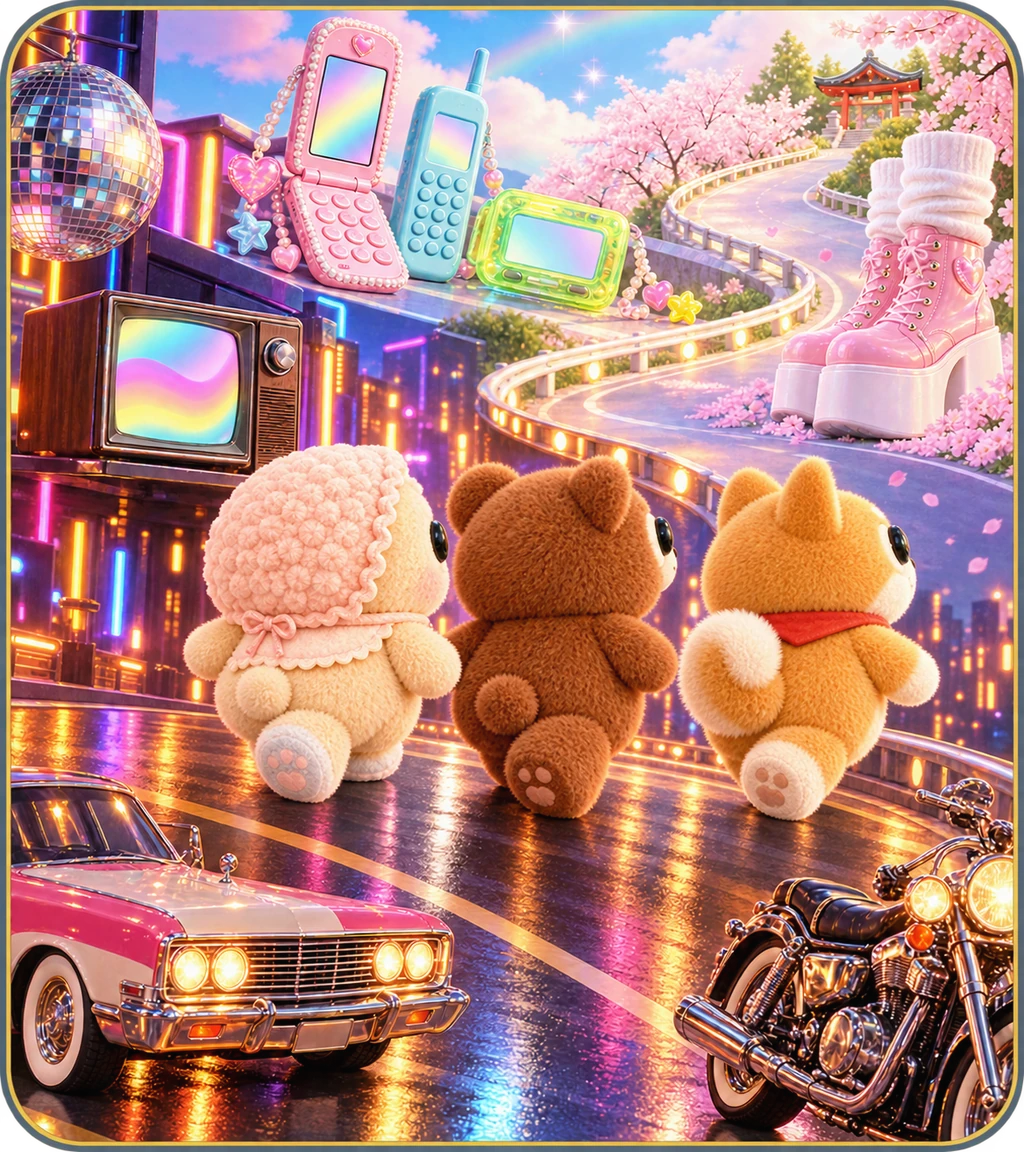
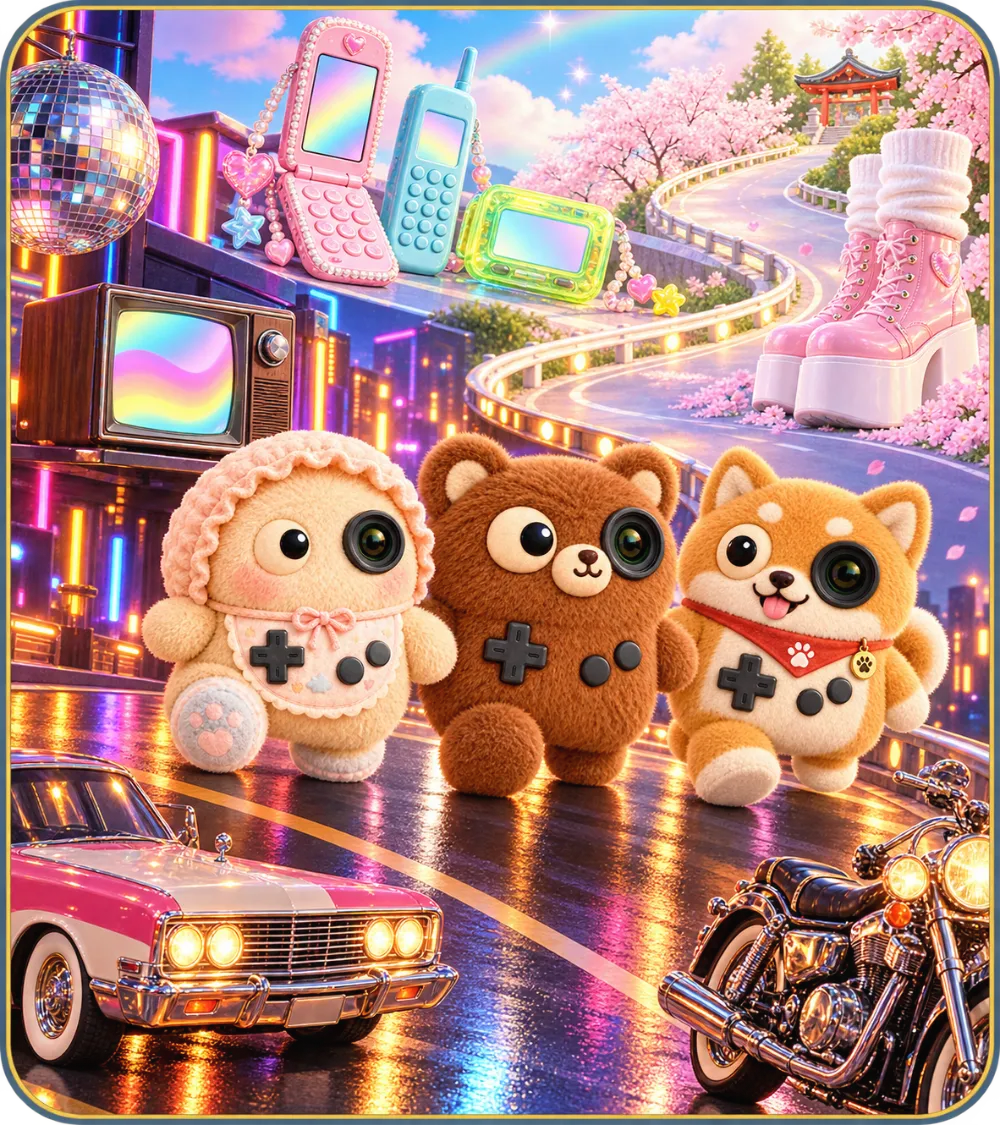
Event key visual: use the chosen variant (the three friends face front)

diff --git a/assets/event-toki/MANIFEST.md b/assets/event-toki/MANIFEST.md
@@ -247,3 +247,5 @@ Generation prompt (normalized): Portrait 8:9 rounded rectangular mobile-event il
 Final edit prompt: Preserve composition, objects, colors, character identities, road and rounded indigo/gold frame with transparent outside corners. Change only the three central friends into three-quarter rear/side walking poses toward the upper-right pastel shrine, with heads and feet pointing in the travel direction, no looking back at the camera; preserve their large size and side-by-side row. No text, logos or extra embellishments.
 
 Validation: RGBA WebP; alpha range 0-255. Four corner alpha values of the main asset are 0,0,1,0 (the value 1 is a near-transparent antialiasing sample); preview corners are all 0. Visually reviewed the 375px derivative for character count, direction, period-object readability and no lettering. Only the new key visual, its two previews and this manifest are included in its commit; pre-existing changes are retained.
+
+- key-visual.webp: replaced on 2026-10-09 by the variant the user chose (three friends facing front, 1000x1125, alpha). Same 8:9 ratio as the first version.
